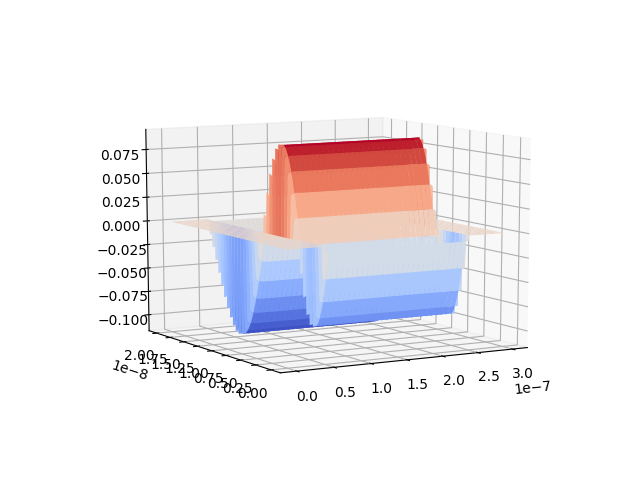
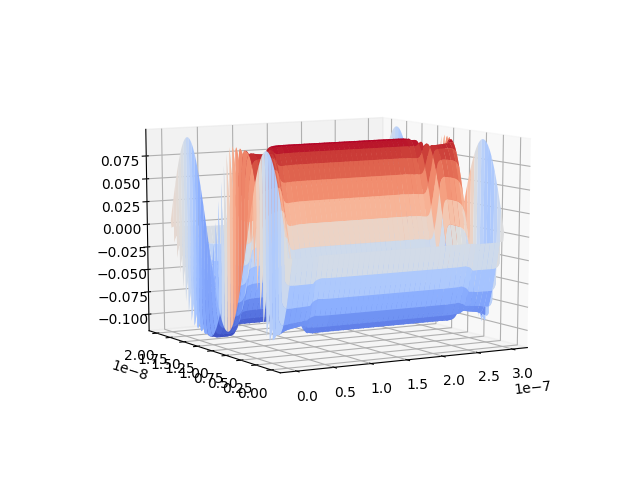
change plot function call from comannd args

Changed region(s): [[0.1562, 0.25, 0.8125, 0.7188]]

diff --git a/schrodinger_poisson/main.py b/schrodinger_poisson/main.py
@@ -7,12 +7,14 @@ from mpl_toolkits.mplot3d import Axes3D
 from fenics import *
 
 import schrodinger_fenics
+import density
 import poisson_bcs
 import plotter
 import sys
+import time
 
 class Device(object):
-    def __init__(self, structure, material):
+    def __init__(self, structure, material, flag):
         self.xin = structure["xin"]
         self.yin = structure["yin"]
         self.xfi = structure["xfi"]
@@ -28,6 +30,7 @@ class Device(object):
         self.material = material
         self.doner = structure["doner"]
         self.nplus = structure["nplus"]
+        self.flag = flag
 
     def IntervalMeshCreate(self):
         mesh = IntervalMesh(self.ny, self.yin, self.yfi)
@@ -116,6 +119,7 @@ class ConstantValue(object):
         self.Number_of_Particle = 100000
 
 if __name__ == "__main__":
+    start = time.time()
     if (len(sys.argv) > 1) and (sys.argv[1] == "debug"):
         import ptvsd
         print("waiting...")
@@ -173,13 +177,21 @@ if __name__ == "__main__":
         "intrinsic_carrier_concentration": 2.0 * 10**19,
         "effective_conduction_band_density": 1.0 * 10**25,
         "effective_valence_band_density": 5.0 * 10**24,
+        "non-parabolicity": 0.3,
         # metal (TaN)
         "metal_work_function": 5.43
     }
 
+    # assume initial fermi energy is 4.3 eV
+    fermi_energy = 4.3
+
     constant = ConstantValue()
 
-    device = Device(structure, material)
+    plot_flag = []
+    for arg in sys.argv:
+        plot_flag.append(arg)
+
+    device = Device(structure, material, plot_flag)
 
     rectangle_mesh = device.RectangleMeshCreate()
 
@@ -189,18 +201,29 @@ if __name__ == "__main__":
 
     potential = poisson_bcs.poissonSolverTest(rectangle_mesh, dopant, device, constant)
     #plotter.plot_potential_distribution(device, rectangle_mesh, potential)
+    
+    wavefunction, eigenvalue = schrodinger_fenics.schrodinger(rectangle_mesh, potential, device, constant)
 
-    """
-    V = FunctionSpace(rectangle_mesh, 'CG', 1)
-    new_potential = Function(V)
-    new_potential.vector()[:] = np.array([-constant.Q*j for j in potential.vector()[:]])
-    u = potential.vector()[:]
-    temp = np.array([])
-    for i in range(rectangle_mesh.num_vertices()):
-        temp = np.append(temp, u[i])
-    potential = np.reshape(temp, (device.nx+1,device.ny+1))
-    new_potential = np.reshape(new_potential, (device.nx+1,device.ny+1))
-    """
-    
-    schrodinger_fenics.schrodinger(rectangle_mesh, potential, device, constant)
-    
+    # reinitialize electron distribution
+    electron_distribution = np.zeros((device.ny+1, device.nx+1))
+
+    for index in range(device.nx + 1):
+        # calculate occupation state of each subband
+        # return a numpy array of occuaption state in each subband
+        nk = density.electronOccupationState(eigenvalue[:, index], fermi_energy)
+        n = density.electronDensityFunction(wavefunction[:, index], nk, eigenvalue[:, index])
+        electron_distribution[:, index] = n
+
+    # plot electron distribution
+    if ("density" in device.flag):
+        np.savetxt("electron_distribution.csv", electron_distribution)
+        fig = plt.figure()
+        X = np.linspace(device.xin, device.xfi, device.nx+1)
+        Y = np.linspace(device.yin, device.yfi, device.ny+1)
+        X, Y = np.meshgrid(X, Y)
+        plt.subplot(1,1,1)
+        plt.pcolor(X, Y, electron_distribution)
+        plt.savefig("img/electron_distribution.png")
+
+    end = time.time()
+    print("elpsed_time:{}".format(end - start) + "[sec]")

diff --git a/schrodinger_poisson/electron_density.py b/schrodinger_poisson/electron_density.py
@@ -8,7 +8,7 @@ import scipy
 import bias
 import matplotlib.animation as animation
 import mpmath
-
+import constant
 # Warning: from fenics import * will import both `sym` and
 # `q` from FEniCS. We therefore import FEniCS first and then
 # overwrite these objects.
@@ -38,3 +38,82 @@ def electronDensity(eigenvector, state):
 
 	n = np.sum(electron_density, axis=0)
 	return n
+
+def effMassToArray(eigenvalue, potential, device):
+	"""
+	return an 1d numpy array for the structure giving the effective mass for a paticular energy.
+	This methods implements Nelson's emprical 2-band model of non-parabolicity
+
+	Args: 
+		- eigenvalue : 1d numpy array of calculated eigen value from schrodinger.py
+		- potential : 1d numpy array of calculated electrostatic potential from poisson.py
+	"""
+	effective_mass = device.material["electron_effective_mass"] * constant.M
+	array = effective_mass * (1.0 + device.material["non-parabolicity"]*(eigenvalue-potential))
+	return array
+	
+
+def calculationEffMass(wavefunction, eigenvalues , potential):
+	"""
+	find subband effective masses including non-parabolicy
+	but stilling using a fixed effective mass for each subband dispersion
+	"""
+	conductionband_effmass_state = np.vstack([effMassToArray(eigenvalue, potential) for eigenvalue in eigenvalues])
+	array = 1.0/np.sum(wavefunction**2/conductionband_effmass_state,axis=1)
+	return array
+
+def fermiLevel(density, eigenvalue, effective_mass_state):
+	"""
+	find the fermi level for 1d slice of density and eigen value
+	"""
+	hbar=1.05457266 * 10**-34
+	energy_step = 1.0 * 10**-9
+
+	def fermiLevel_0K(density, eigenvalue, effective_mass_state):
+		Et, Ef = 0.0, 0.0
+		for i, (Ei, csb_meff) in enumerate(zip(eigenvalue, effective_mass_state)):
+			Et += Ei
+			Efnew = (density*hbar**2*constant.PI/csb_meff+Et)/(i+1)
+			if Efnew > Ei:
+				Ef = Efnew
+			else:
+				break
+				# found Ef and so we break
+
+		number_of_state = np.zeros(eigenvalue.size)
+		for i, (Ei, csb_meff) in enumerate(zip(eigenvalue, effective_mass_state)):
+			temp = (Ef - Ei)*csb_meff/(hbar**2*pi)
+			temp *= (Ni>0.0)
+			number_of_state[i]=temp
+		return Ef, number_of_state
+
+	def fermiDirac(energy, fermienergy):
+		"""
+		return integral of Fermi Dirac Equation for energy independent density of states
+		"""
+		return constant.KB*constant.T*math.log(math.exp((fermienergy - energy)/(constant.KB*constant.T))+1)
+
+	def function(fermienergy, effective_mass_state, density):
+		"""
+		return denisty
+		"""
+		temp = density
+		for Ei, csb_meff in zip(eigenvalue, effective_mass_state):
+			temp -= csb_meff*fermiDirac(Ei, fermienergy)/(hbar**2*constant.PI)
+		return temp
+
+	fermi_energy_0k, number_of_state_0k = fermiLevel_0K(density, eigenvalue, effective_mass_state)
+
+	# implement Newton-Raphson method
+	fermi_energy = fermi_energy_0k
+	energy_step = energy_step
+
+	while True:
+		y = function(fermi_energy, effective_mass_state, density)
+		dy = (function(fermi_energy+energy_step, effective_mass_state, density) - function(fermi_energy - energy_step, effective_mass_state, density))/(2.0 * energy_step)
+
+	
+
+	
+
+

diff --git a/schrodinger_poisson/schrodinger_fenics.py b/schrodinger_poisson/schrodinger_fenics.py
@@ -5,12 +5,12 @@ matplotlib.use('Agg')
 import matplotlib.pyplot as plt
 import numpy as np
 from mpl_toolkits.mplot3d import Axes3D
+import math
 
 # Warning: from fenics import * will import both `sym` and
 # `q` from FEniCS. We therefore import FEniCS first and then
 # overwrite these objects.
 from dolfin import *
-
 
 # make Hamiltonian for eigen value problem
 def makeHamiltonian(ny, dy, potential, device, cons):
@@ -77,28 +77,34 @@ def schrodinger(mesh, potential, device, cons):
 
     y, dy = np.linspace(0, L, N+1), L / N
     wavefunction = np.zeros((device.ny+1, device.nx+1))
+    eigenvalue = np.zeros((subbands, device.nx+1))
 
     for subband in range(0, subbands):
         # calculate eigen vector and eigen value for each slice of rectangle mesh
         for index in range(device.nx + 1):
-            if(device.gate_ini < index*device.dx and index*device.dx < device.gate_fin):
-                vector = potential[:, index]
-                H = makeHamiltonian(N, dx, vector, device, cons)
-                w, v = np.linalg.eigh(H)
-                temp = v[:, subband]
-                wavefunction[:, index] = -1*temp
+            #if(device.gate_ini < index*device.dx and index*device.dx < device.gate_fin):
+            vector = potential[:, index]
+            H = makeHamiltonian(N, dx, vector, device, cons)
+            w, v = np.linalg.eigh(H)
+            temp = v[:, subband]
+
+            # eigen vector is already normalized!!!
+            wavefunction[:, index] = -1*temp
+            eigenvalue[subband, index] = w[subband]
 
         # reshape 2d wavefunction array to 1d array
-        
-        X = np.linspace(device.xin, device.xfi, device.nx+1)
-        Y = np.linspace(device.yin, device.yfi, device.ny+1)
-        X, Y = np.meshgrid(X, Y)
+        if("schrodinger" in device.flag):
+            X = np.linspace(device.xin, device.xfi, device.nx+1)
+            Y = np.linspace(device.yin, device.yfi, device.ny+1)
+            X, Y = np.meshgrid(X, Y)
 
-        # plot wavefunction
-        fig = plt.figure()
-        ax = fig.gca(projection="3d")
-        ax.plot_surface(X, Y, wavefunction, linewidth=0.2, antialiased=True, cmap=plt.cm.coolwarm)
-        ax.view_init(10, -120)
-        plt.savefig("img/wavefunction_" + str(subband) + ".png")
+            # plot wavefunction
+            fig = plt.figure()
+            ax = fig.gca(projection="3d")
+            ax.plot_surface(X, Y, wavefunction, linewidth=0.2, antialiased=True, cmap=plt.cm.coolwarm)
+            ax.view_init(10, -120)
+            plt.savefig("img/wavefunction_" + str(subband) + ".png")
 
     print("Schrodinger Equation got finished!")
+
+    return wavefunction, eigenvalue

diff --git a/schrodinger_poisson/density.py b/schrodinger_poisson/density.py
@@ -10,21 +10,23 @@ hbar=1.05457266 * 10**-34
 # germanium effective mass
 mass = 0.041 * cons.M
 # m* / (pi * hbar^2)
-temp1 = mass / (cons.PI * hbar)
+temp1 = mass / (cons.PI * hbar**2)
 # Kb * T
-temp2 = cons.KB * cons.T
+kb = 8.6173303 * 10**-5
+temp2 = kb * cons.T
+
+Q = cons.Q
 
 
 # function to return the electron occuypation state nk
+# conduction electron concentrairion per unit box / m^-3
 def electronOccupationState(eigenvalues, fermiEnergy):
     """
     return electron occupation state for each subband meaning just number of suband value sets
     """
-    print("finding nk....")
     nk = []
     for eigenvalue in eigenvalues:
-        result = mpmath.quad(lambda x: temp1/(1 + mpmath.exp((x-fermiEnergy)/cons.T/cons.KB)), [eigenvalue, 2*eigenvalue + fermiEnergy])
-        print(result)
+        result = temp1*mpmath.quad(lambda x: 1/(1 + mpmath.exp((x-fermiEnergy)/temp2)), [eigenvalue/Q, float('inf')])
         nk.append(result)
     return nk
 
@@ -37,7 +39,6 @@ def electronDensityFunction(eigenvectors, nk, eigenvalues):
         - eigenvectors: 1d wavefunction array of each slice
         - nk: electron occupation state
     """
-    print("Finding the elctron density, nk")
     result = []
     for i in range(len(eigenvalues)):
         kth_term = [(wavefunction * wavefunction * nk[i]) for wavefunction in eigenvectors]

diff --git a/schrodinger_poisson/poisson_bcs.py b/schrodinger_poisson/poisson_bcs.py
@@ -81,7 +81,7 @@ def poissonSolverTest(mesh, dopant, device, cons):
 
 
     # calculate contact bias
-    applied_volatage = 0.5
+    applied_volatage = 0.2
     u_gate = bias.bias(device, "Schottky", applied_volatage)
     u_drain = bias.bias(device, "Ohmic", 0.0)
     u_source = bias.bias(device, "Ohmic", 0.0)
@@ -139,17 +139,14 @@ def poissonSolverTest(mesh, dopant, device, cons):
 
     #potential = -1*potential[i]
     u_array = -1 * u.vector()
-
-    np.savetxt("potential_array.txt", dof_x)
-
-
     
-    fig = plt.figure()
-    ax = fig.gca(projection="3d")
-    ax.plot_trisurf(dof_x, dof_y, u_array, linewidth=0.2, antialiased=False, cmap=plt.cm.coolwarm)
-    ax.view_init(30, -120)
-    ax.set_zlim3d(min(u_array), max(u_array))
-    plt.savefig("electrostatic_potential.png")
+    if ("poisson" in device.flag):
+        fig = plt.figure()
+        ax = fig.gca(projection="3d")
+        ax.plot_trisurf(dof_x, dof_y, u_array, linewidth=0.2, antialiased=False, cmap=plt.cm.coolwarm)
+        ax.view_init(30, -120)
+        ax.set_zlim3d(min(u_array), max(u_array))
+        plt.savefig("electrostatic_potential.png")
 
     print("Poisson Equation got done!!!")
 

diff --git a/schrodinger_poisson/constant.py b/schrodinger_poisson/constant.py
@@ -1,0 +1,9 @@
+Q = 1.60217662e-19
+HBAR = 6.582119514 * 10**-16
+H = 6.626070040 * 10**-34
+PI = 3.14159265359
+EPS = 8.854187817 * 10**-12
+T = 300
+M = 9.10938356 * 10**-31
+KB = 1.38064852* 10**-23
+Number_of_Particle = 100000
